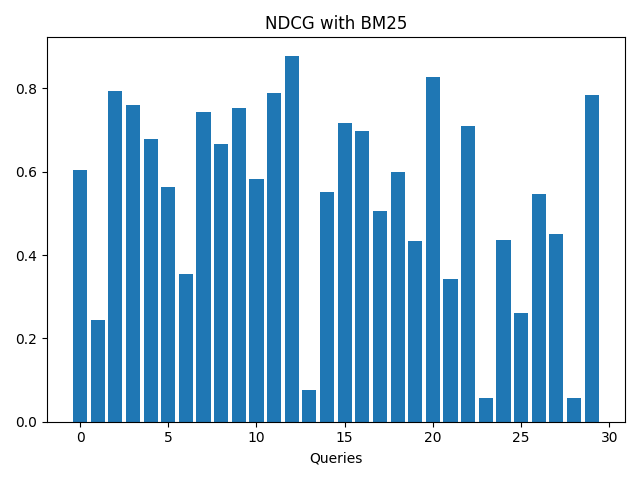
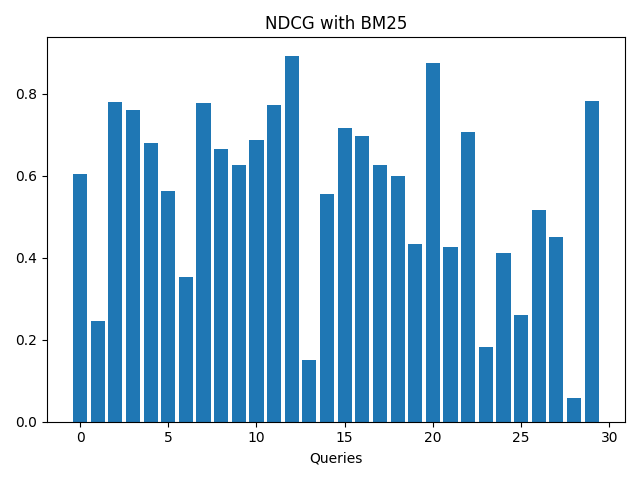
Z: la vita

diff --git a/evaluation.py b/evaluation.py
@@ -25,7 +25,7 @@ def get_results(search_key, weighting):
 
     search_key = search_key.lower()
     search_key = preProcess(search_key)
-    search_key = queryExpansion(search_key)
+    # search_key = queryExpansion(search_key)
     # print(search_key)
     r = q.parse(search_key)
     l = []
@@ -107,7 +107,7 @@ def map_evaluation(weighting):
 
 if __name__ == '__main__':
     ix = index.open_dir("indexdir/index")
-    wBM25 = scoring.BM25F(B=0.75, title_B=1.0, body_B=0.5, K1=2)
+    wBM25 = scoring.BM25F(B=0.75, title_B=1.0, body_B=0.5, K1=1.7)
     wtf = TF_IDF()
 
     m, y = ndcg_evaluation(wBM25)

diff --git a/preProcessing.py b/preProcessing.py
@@ -7,8 +7,8 @@ def preProcess(contenuto, isString=True):
     tokens = tokenize(contenuto)
     tokens = removePunctuation(tokens)
     tokens = removeStopWords(tokens)
-    # tokens = lemmatize(tokens)
-    # tokens = stem(tokens)
+    tokens = lemmatize(tokens)
+    tokens = stem(tokens)
     if(isString):
         return ' '.join(tokens)
     else:
